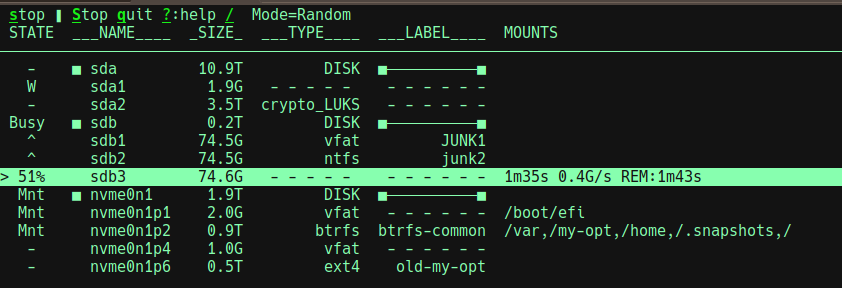
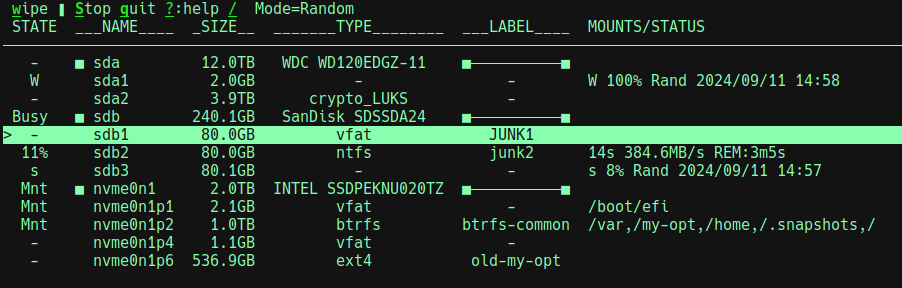
added disk persistent state

diff --git a/src/dwipe/main.py b/src/dwipe/main.py
@@ -15,13 +15,13 @@ import re
 import json
 import subprocess
 import time
+import datetime
 import threading
 import random
 import shutil
 import traceback
 import curses as cs
 from types import SimpleNamespace
-from typing import Tuple, List
 from dwipe.PowerWindow import Window, OptionSpinner
 
 def human(number):
@@ -62,6 +62,7 @@ class WipeJob:
     # Generate a 1MB buffer of random data
     BUFFER_SIZE = 1 * 1024 * 1024  # 1MB
     WRITE_SIZE = 16 * 1024  # 16KB
+    STATE_OFFSET = 15 * 1024 # where json is written
     buffer = bytearray(os.urandom(BUFFER_SIZE))
     zero_buffer = bytes(WRITE_SIZE)
 
@@ -123,6 +124,62 @@ class WipeJob:
 
         return ago_str(int(round(elapsed_time))), pct_str, rate_str, when_str
 
+    def prep_marker_buffer(self, is_random):
+        """  Get the 1st 16KB to write:
+             - 15K zeros
+             - JSON status + zero fill to 1KB
+        """
+        data = { "unixtime": int(time.time()),
+                    "scrubbed_bytes": self.total_written,
+                    "size_bytes": self.total_size,
+                    "mode": 'Rand' if is_random else 'Zero'
+                    }
+        json_data = json.dumps(data).encode('utf-8')
+        buffer = bytearray(self.BUFFER_SIZE)
+        buffer[:self.STATE_OFFSET] = b'\x00' * self.STATE_OFFSET
+        buffer[self.STATE_OFFSET:self.STATE_OFFSET+len(json_data)] = json_data
+        remaining_size = self.BUFFER_SIZE - (self.STATE_OFFSET+len(json_data))
+        buffer[self.STATE_OFFSET+len(json_data):] = b'\x00' * remaining_size
+        return buffer
+
+    @staticmethod
+    def read_marker_buffer(device_name):
+        """ Open the device and read the first 16 KB """
+        try:
+            with open(f'/dev/{device_name}', 'rb') as device:
+                device.seek(0)
+                buffer = device.read(WipeJob.BUFFER_SIZE)
+        except Exception:
+            return None # cannot find info
+
+        if buffer[:WipeJob.STATE_OFFSET] != b'\x00' * (WipeJob.STATE_OFFSET):
+            return None # First 15 KB are not zeros
+
+        # Extract JSON data from the next 1 KB Strip trailing zeros
+        json_data_bytes = buffer[WipeJob.STATE_OFFSET:WipeJob.BUFFER_SIZE].rstrip(b'\x00')
+
+        if not json_data_bytes:
+            return None # No JSON data found
+
+        # Deserialize the JSON data
+        try:
+            data = json.loads(json_data_bytes.decode('utf-8'))
+        except (json.JSONDecodeError, Exception):
+            return None # Invalid JSON data!
+
+        rv = {}
+        for key, value in data.items():
+            if key in ('unixtime', 'scrubbed_bytes', 'size_bytes') and isinstance(value, int):
+                rv[key] = value
+            elif key in ('mode', ) and isinstance(value, str):
+                rv[key] = value
+            else:
+                return None # bogus data
+        if len(rv) != 4:
+            return None # bogus data
+        return SimpleNamespace(**rv)
+
+
     def write_partition(self):
         """Writes random chunks to a device and updates the progress status."""
         self.total_written = 0  # Track total bytes written
@@ -155,11 +212,11 @@ class WipeJob:
                 if self.opts.dry_run and self.total_written >= self.total_size:
                     break
             # clear the beginning of device whether aborted or not
-            # if we have started writing
+            # if we have started writing + status in JSON
             if not self.opts.dry_run and self.total_written > 0 and is_random:
                 device.seek(0)
-                chunk = memoryview(WipeJob.zero_buffer)
-                bytes_written = device.write(chunk)
+                # chunk = memoryview(WipeJob.zero_buffer)
+                bytes_written = device.write(self.prep_marker_buffer(is_random))
         self.done = True
 
 class DeviceInfo:
@@ -186,11 +243,12 @@ class DeviceInfo:
             model='',       # /sys/class/block/{name}/device/vendor|model
             # fsuse='-',
             size_bytes=size_bytes,  # /sys/block/{name}/...
+            marker='',      #  persistent status
             mounts=[],        # /proc/mounts
             minors=[],
             job=None,         # if zap running
             )
-        
+
 
     @staticmethod
     def get_device_vendor_model(device_name):
@@ -202,16 +260,15 @@ class DeviceInfo:
             try:
                 rv = ''
                 fullpath = f'/sys/class/block/{device_name}/device/{suffix}'
-                with open(fullpath, 'r') as f: # Read information
+                with open(fullpath, 'r', encoding='utf-8') as f: # Read information
                     rv = f.read().strip()
-            except (FileNotFoundError, Exception) as exc:
+            except (FileNotFoundError, Exception):
                 # print(f"Error reading {info} for {device_name} : {e}")
                 pass
             return rv
 
-        
-        rv = f'{get_str(device_name, "vendor")}'
-        rv += f'{get_str(device_name, "model")}'
+        # rv = f'{get_str(device_name, "vendor")}' #vendor seems useless/confusing
+        rv = f'{get_str(device_name, "model")}'
         return rv.strip()
 
     def parse_lsblk(self, dflt):
@@ -240,6 +297,17 @@ class DeviceInfo:
             while len(mounts) >= 1 and mounts[0] is None:
                 del mounts[0]
             entry.mounts = mounts
+            if not mounts:
+                marker = WipeJob.read_marker_buffer(entry.name)
+                now = int(round(time.time()))
+                if (marker and marker.size_bytes == entry.size_bytes
+                        and 0 <= marker.scrubbed_bytes <= entry.size_bytes
+                        and marker.unixtime < now):
+                    pct = int(round((marker.scrubbed_bytes/marker.size_bytes)*100))
+                    state = 'W' if pct >= 100 else 's'
+                    dt = datetime.datetime.fromtimestamp(marker.unixtime)
+                    entry.marker = f'{state} {pct}% {marker.mode} {dt.strftime('%Y/%m/%d %H:%M')}'
+
             return entry
 
                # Run the `lsblk` command and get its output in JSON format with additional columns
@@ -265,6 +333,8 @@ class DeviceInfo:
                 if entry.mounts:
                     entry.state = 'Mnt'
                     parent.state = 'Mnt'
+                elif entry.marker:
+                    entry.state = entry.marker[0]
 
         if self.DB:
             print('\n\nDB: --->>> after parse_lsblk:')
@@ -408,18 +478,23 @@ class DeviceInfo:
         emit += f'{sep}{"SIZE":_^{wids.human}}'
         emit += f'{sep}{"TYPE":_^{wids.fstype}}'
         emit += f'{sep}{"LABEL":_^{wids.label}}'
-        emit += f'{sep}MOUNTS'
+        emit += f'{sep}MOUNTS/STATUS'
         return emit
 
     def part_str(self, partition):
         """ Convert partition to human value. """
-        def print_str_or_dashes(name, width, chrs=' -'):
-            if not name.strip(): # Create a string of '─' characters of the specified width
-                result = f'{chrs}' * (width//2)
-                result += ' ' * (width%2)
-            else: # Format the name to be right-aligned within the specified width
-                result = f'{name:>{width}}'
-            return result
+#       def print_str_or_dashes(name, width, chrs=' -'):
+#           if not name.strip(): # Create a string of '─' characters of the specified width
+#               result = f'{chrs}' * (width//2)
+#               result += ' ' * (width%2)
+#           else: # Format the name to be right-aligned within the specified width
+#               result = f'{name:>{width}}'
+#           return result
+
+        def print_str_or_dash(name, width, empty='-'):
+            if not name.strip(): # return
+                name = empty
+            return f'{name:^{width}}'
 
         sep = '  '
         ns = partition # shorthand
@@ -434,14 +509,17 @@ class DeviceInfo:
         emit += f'{sep}{name_str:<{wids.name}}'
     #   emit += f'{sep}{ns.fsuse:^{wids.fsuse}}'
         emit += f'{sep}{human(ns.size_bytes):>{wids.human}}'
-        emit += sep + print_str_or_dashes(ns.fstype, wids.fstype)
+        emit += sep + print_str_or_dash(ns.fstype, wids.fstype)
         # emit += f'{sep}{ns.fstype:>{wids.fstype}}'
         if ns.parent is None:
-            emit += sep + '■' + '─'*(wids.label-2) + '■' 
+            emit += sep + '■' + '─'*(wids.label-2) + '■'
         else:
-            emit += sep + print_str_or_dashes(ns.label, wids.label, chrs=' -')
+            emit += sep + print_str_or_dash(ns.label, wids.label)
         # emit += f' {ns.label:>{wids.label}}'
-        emit += f'{sep}{",".join(ns.mounts)}'
+        if ns.mounts:
+            emit += f'{sep}{",".join(ns.mounts)}'
+        else:
+            emit += f'{sep}{ns.marker}'
         return emit
 
     def merge_dev_infos(self, nss, prev_nss=None):
@@ -630,7 +708,7 @@ class DiskWipe:
             for part in self.partitions.values():
                 stop_if_idle(part)
             return None
-        
+
         if key == ord('l'):
             part = self.partitions[self.pick_name]
             self.set_state(part, 'Unlk' if part.state == 'Lock' else 'Lock')
@@ -764,7 +842,7 @@ class DiskWipe:
 
                     if partition.parent and self.partitions[partition.parent].state == 'Lock':
                         continue
-                    
+
                     if wanted(name) or partition.job:
                         partition.line = self.dev_info.part_str(partition)
                         self.win.add_body(partition.line)

diff --git a/README.md b/README.md
@@ -45,6 +45,8 @@ The top line shows the "Mode" which is Random or Zeros. For some disks, zeroing 
 
 The write rate and estimating remaining times are shown when wiping a device.  Due to write queueing, the initial rates may be inflated, final rates are deflated, and the times are optimistic.
 
+The 'W' (Wiped) and 's' (partly wiped) states are disk persistent.  For those states, more information is provided about the wipe including when and percent complete.
+
 
 ### The Help Screen
 When **?** is typed, the help screen looks like:
